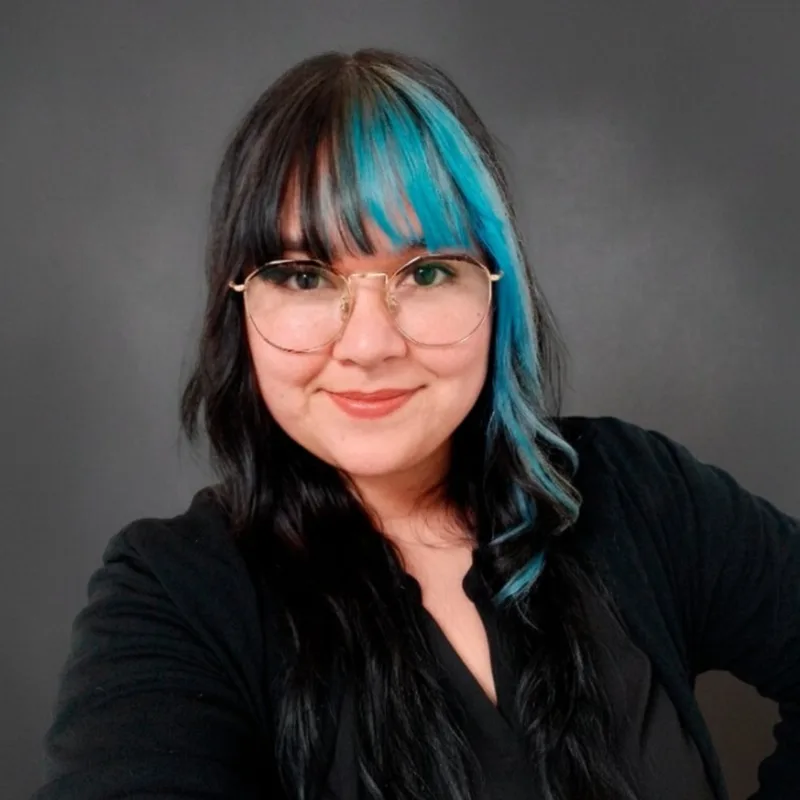
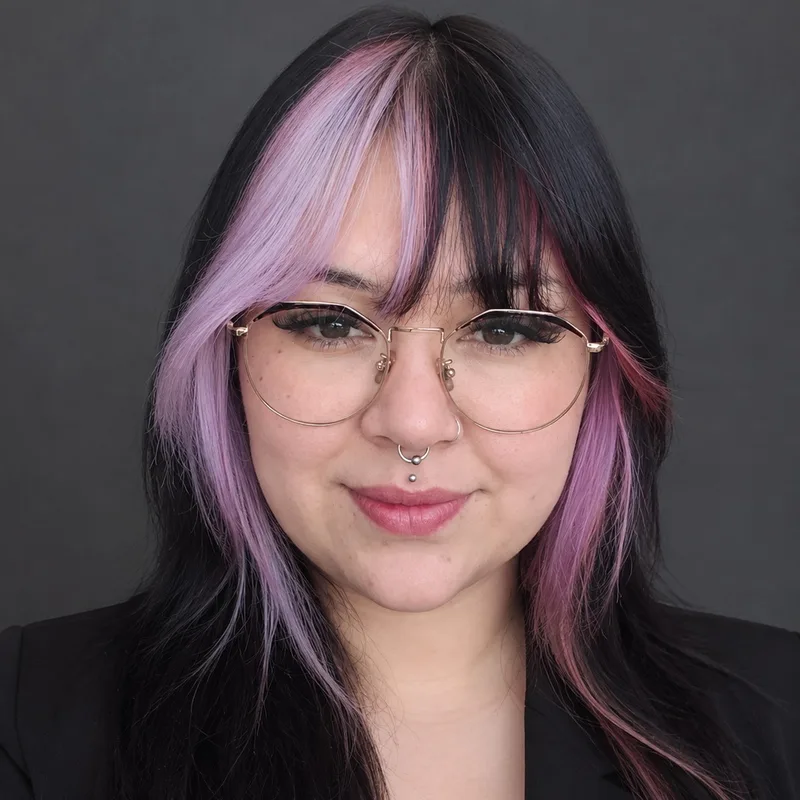
Actualizar foto de Dania Candia en colaboradores

diff --git a/grupo-educacional-san-amaro/project/index.html b/grupo-educacional-san-amaro/project/index.html
@@ -585,7 +585,7 @@
       </div>
       <div data-colab-category="Marketing" style="background:#1A1A1A;border:1px solid rgba(255,255,255,.08);border-radius:20px;padding:20px;display:flex;flex-direction:column;transition:opacity .3s,transform .3s,box-shadow .25s;" style-hover="box-shadow:0 12px 32px rgba(0,0,0,.25);">
         <div style="border-radius:12px;overflow:hidden;aspect-ratio:4/3;margin-bottom:16px;">
-          <img loading="lazy" decoding="async" src="uploads/Dania Candia.webp" alt="Dania Candia" style="width:100%;height:100%;object-fit:cover;object-position:top;transition:transform .3s;" style-hover="transform:scale(1.05);">
+          <img loading="lazy" decoding="async" src="uploads/Dania Candia.webp?v=2" alt="Dania Candia" style="width:100%;height:100%;object-fit:cover;object-position:top;transition:transform .3s;" style-hover="transform:scale(1.05);">
         </div>
         <h3 style="font-family:'Fraunces',serif;font-size:17px;font-weight:600;color:#FAF9F5;margin-bottom:4px;">Dania Candia</h3>
         <p style="font-size:12px;color:#8A867C;margin-bottom:10px;font-weight:500;letter-spacing:.04em;">Diseñadora Gráfica</p>
